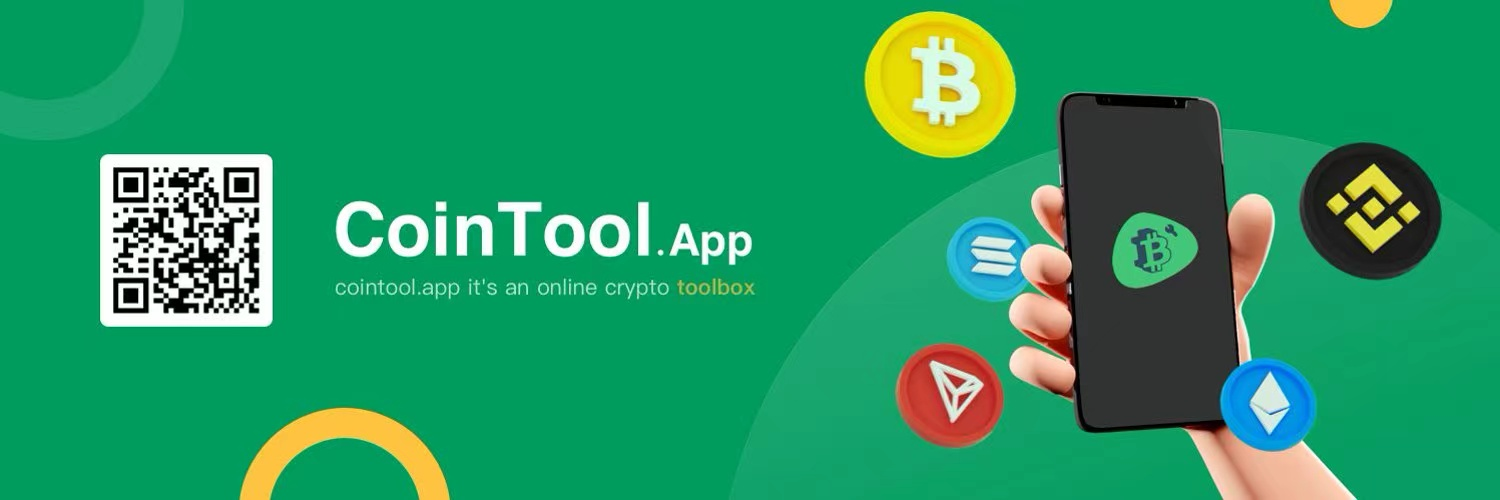
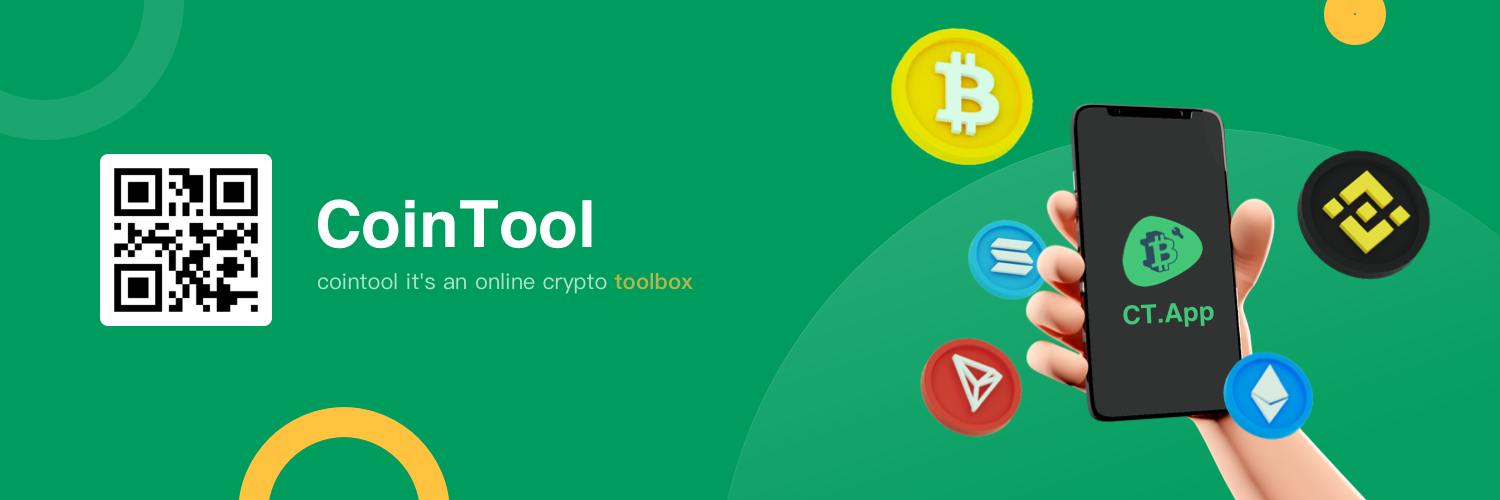
update

diff --git a/README.md b/README.md
@@ -2,10 +2,11 @@
 
 cointool.app It's an online crypto toolbox
 
-website: [CoinTool.App](https://www.cointool.app)
+website: [CoinTool - CT.App](https://www.ct.app)
 
 <img src="https://cdn.jsdelivr.net/gh/CoinTool-App/cdn@main/pic/banner/1.jpeg" width="100%" align="center" />
 
+<img src="https://cdn.jsdelivr.net/gh/CoinTool-App/cdn@main/pic/banner/change_en.jpg" width="100%" align="center" />
 
 ## Contact us
 
